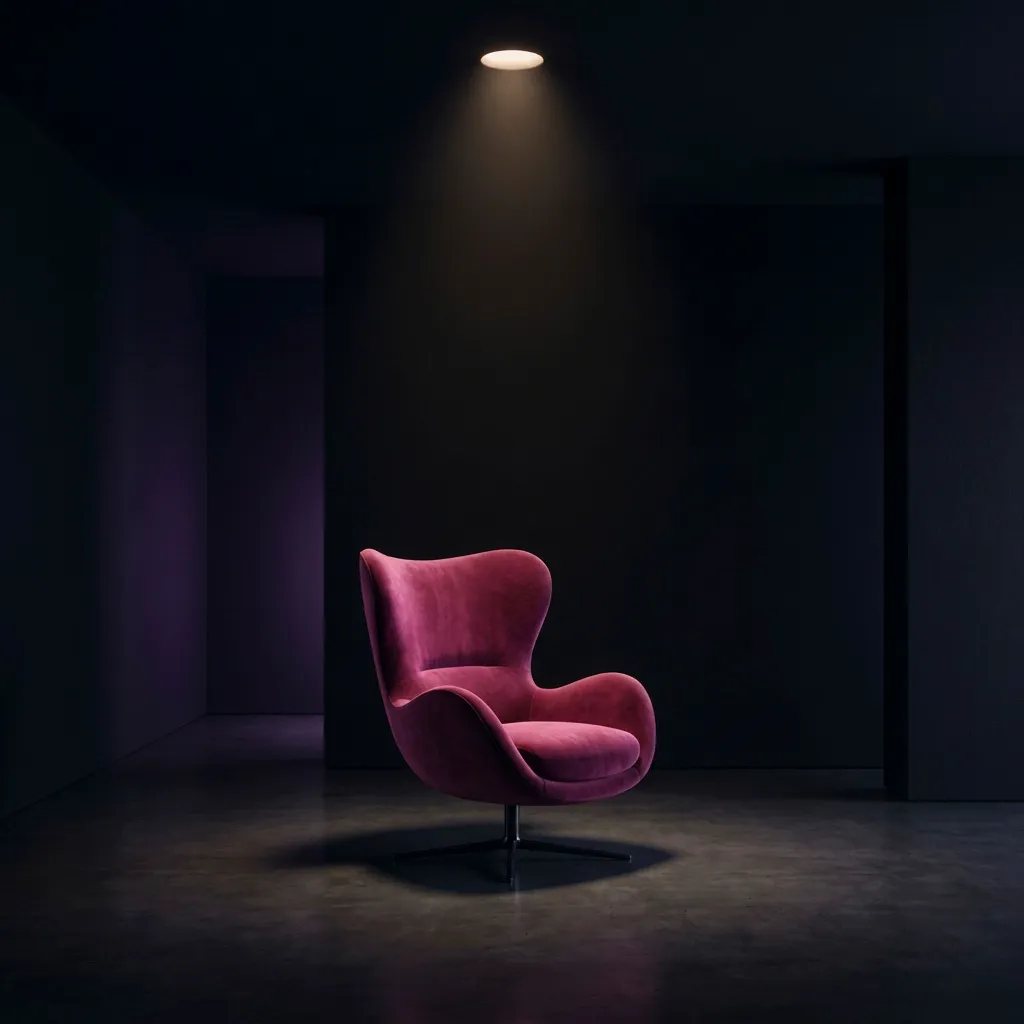
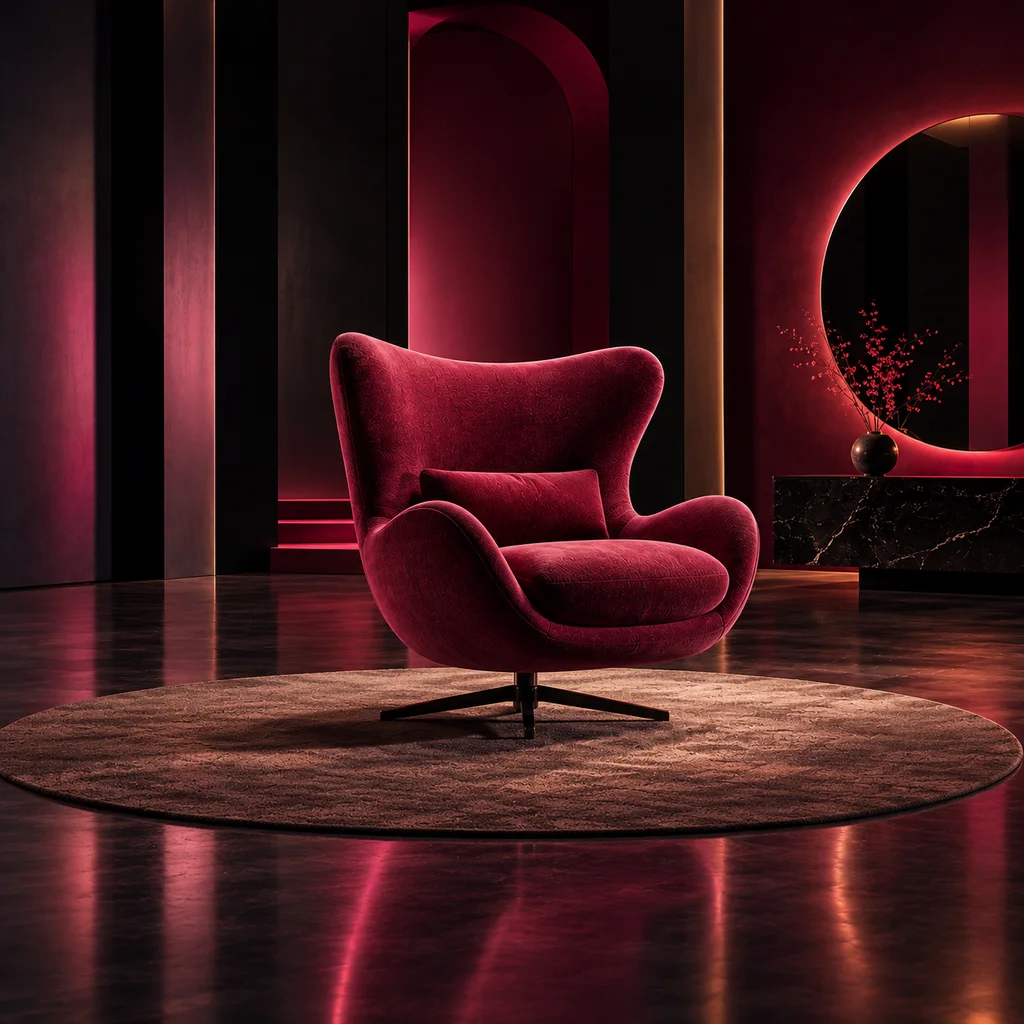
Auth pages: new burgundy lounge chair photo

diff --git a/IMAGE_MANIFEST.md b/IMAGE_MANIFEST.md
@@ -10,7 +10,7 @@ All images were exported from the Figma file through the Figma REST API (image f
 | essence-white-chair.webp | 1785×1785 | WebP | 56 KB | OK |
 | essence-pink-chair.webp | 1640×1595 | WebP | 52 KB | OK |
 | collection-hero.webp | 1000×1000 | WebP | 30 KB | OK |
-| login-room.webp | 1024×1024 | WebP | 15 KB | OK |
+| login-room.webp | 1024×1024 | WebP | 104 KB | OK (updated: burgundy lounge chair, red-lit interior) |
 | order-lounge-chair.webp | 800×800 | WebP | 25 KB | OK |
 | product-fat-lounge-chair.webp | 1400×1400 | WebP | 129 KB | OK |
 | fat-detail-1.webp | 600×600 | WebP | 38 KB | OK |
